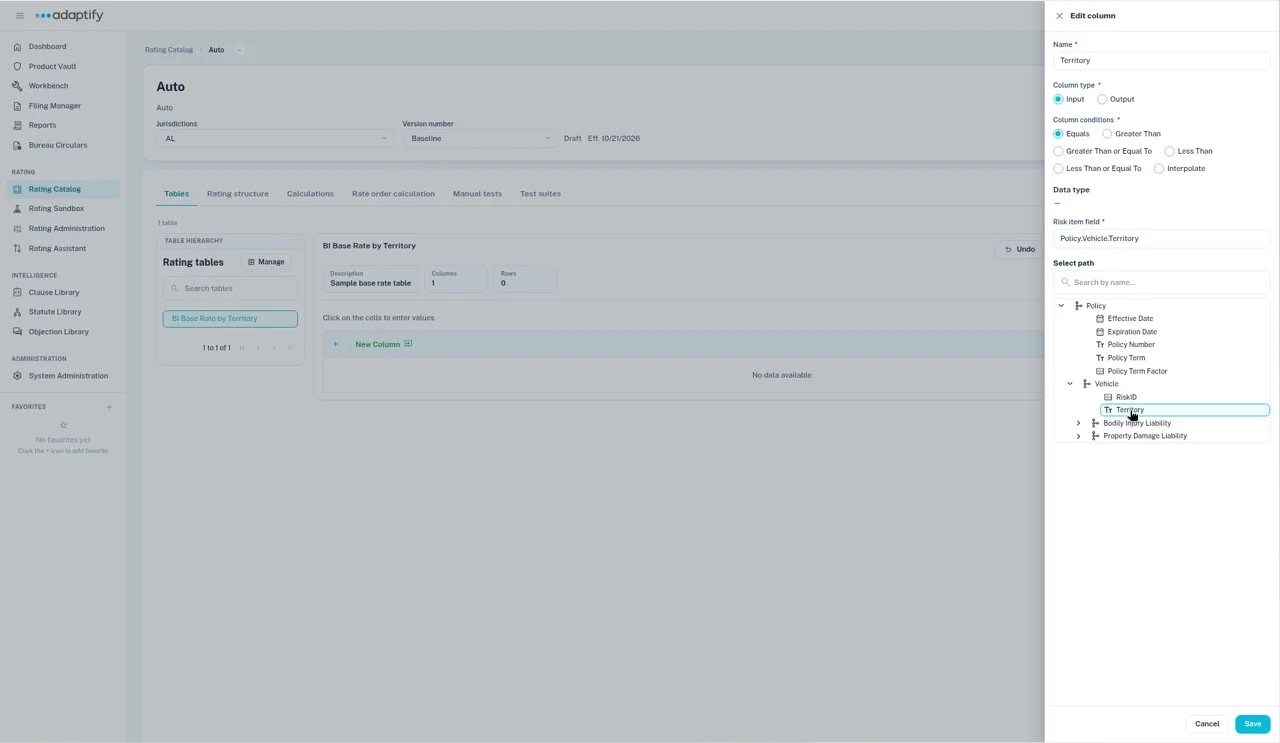
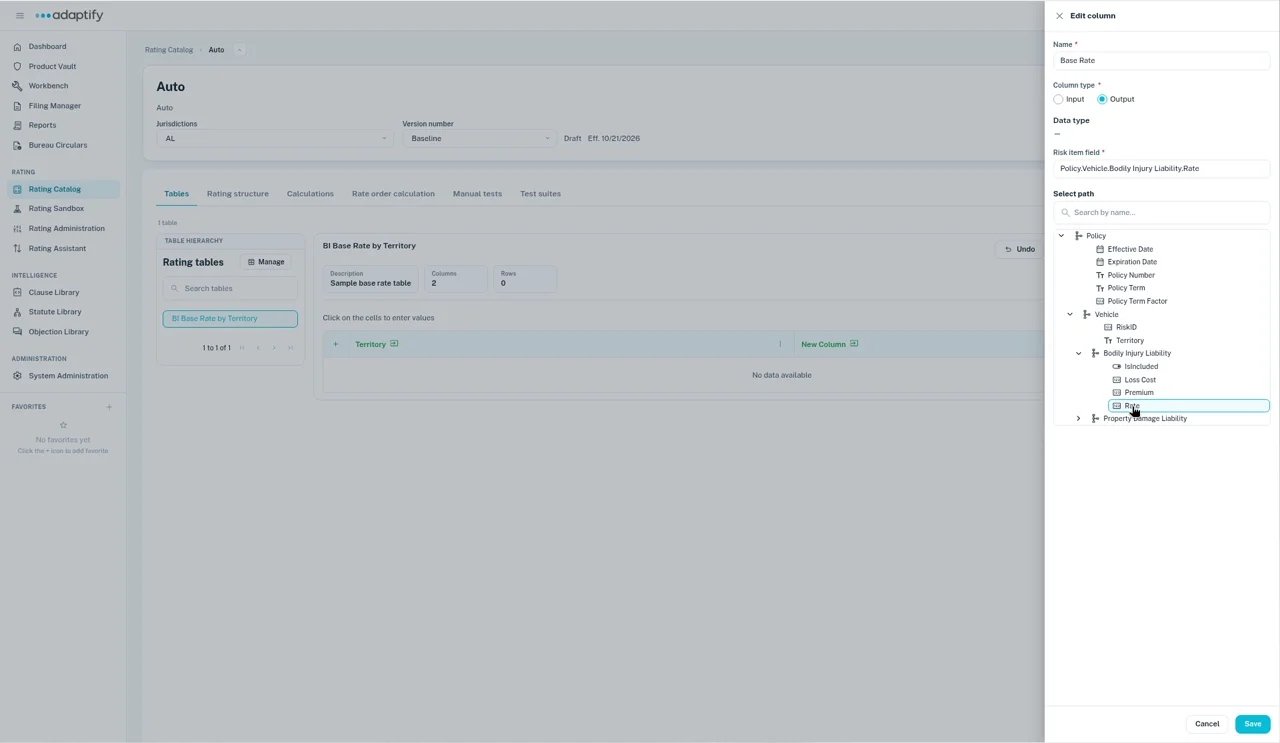
Rating pages: live screenshots from QA build-out

Changed region(s): [[0.8125, 0.1548, 1.0, 0.5882]]

diff --git a/docs/rating/calculations.md b/docs/rating/calculations.md
@@ -2,60 +2,56 @@
 title: Calculations
 audience: internal  # final audience: external (flips in a release PR)
 goals:
-  - Start a calculation flow for a risk item
-  - Build calculation steps and branches
+  - Open a calculation flow for a risk item or a coverage
+  - Build the flow from table and calculation steps
 video: ""
 ---
 
 # Calculations
 
-Calculations turn your table values and rating inputs into premium. Each calculation is a flow you draw on a canvas, step by step.
+Calculations turn your table values and rating inputs into premium. Each calculation is a flow you build on a canvas, from **START** to **END**.
 
-## Find or start a calculation
+## Find a calculation flow
 
-1. Open the rater and choose the **Calculations** tab. It has two views: **Risk item calculation** and **Coverages**.
-2. Choose the **Risk item**, such as **Policy**, then the **Risk item calculation**. Its flow appears on the canvas.
-3. To start a new one, select **+ Create new**. In **Create new risk item calculation**, enter the **Risk item calculation name**, choose the **Risk item**, then select **+ Create new risk item**.
+Open the rater and choose the **Calculations** tab. It has two views:
 
-You can also **Delete**, **Copy** or **Edit** the calculation that's open.
+- **Risk item calculation:** choose the **Risk item**, such as **Policy**, then the **Risk item calculation**. To start a new one, select **+ Create new**. In **Create new risk item calculation**, enter the **Risk item calculation name**, choose the **Risk item**, then select **+ Create new risk item**.
+- **Coverages:** choose the **Risk item**, such as **Vehicle**, then the **Coverage**, such as **Bodily Injury Liability**. Each coverage already has a flow that runs from **START** to **END**, ready for you to build on.
 
-![The Create new risk item calculation dialog over the Calculations tab](../assets/rating/create-risk-item-calculation.webp)
+The flow that's open appears below the pickers, with **Delete**, **Copy** and **Edit**.
 
-## What's on the canvas
+![A saved coverage flow on the Coverages view: START, a table lookup, a calculation and END](../assets/rating/calculation-canvas.webp)
 
-Every flow runs from **START** to **END**. In between, you link these nodes with arrows:
+## Build the flow
 
-- **Table:** looks up a rating table.
-- **Calculation:** a set of math steps.
-- **Branch:** a condition that sends the flow one way or another, such as checking for a wind exclusion. Each path can have a label.
+1. Select **Edit**. The flow opens full screen, with the **Table**, **Calculation** and **Branch** nodes at the top left.
+2. Drag the node you need onto the canvas:
+    - **Table:** looks up a rating table.
+    - **Calculation:** a set of math steps.
+    - **Branch:** sends the flow one way or another, based on a condition.
+3. Connect the nodes in order, from **START** to **END**. For example: START → your base rate table → a premium calculation → END.
+4. Double-click a node to configure it. For a **Table** node, pick the table in **Configure table**. A new Table node reads "Table id is null" until you pick its table.
+5. Select **Save changes**, or **Cancel** to discard your changes.
 
-Select **Edit** to change the flow. Add nodes from the palette on the left, then link them.
+Once the flow is saved, each Calculation node shows how many steps it has, for example "Calculation · 1 step".
 
 ## Configure a calculation
 
-Open a **Calculation** node to configure it.
+Double-click a **Calculation** node to open **Configure calculation**.
 
-1. Enter a **Name**.
-2. Under **Add Functions**, choose a function. It's added to **Steps**. Functions include **+**, **-**, **\***, **/**, **ROUND**, **ROUND_UP**, **DAYS_BETWEEN**, **MONTHS_BETWEEN**, **YEARS_BETWEEN**, **YEAR**, **IF**, **FOR_EACH** and **TABLE_LOOKUP**.
-3. Fill in each part of the step. For each one, choose a **Binding Type**:
+1. Enter a **Name**, for example BI Premium.
+2. Choose a function under **Add functions** to create a step. Each step can use the result of an earlier one.
+3. Fill in each part of the step. Select a part, such as **Pick left** or **Pick right**, and choose what to **USE**:
     - **Step:** the result of an earlier step.
-    - **Path:** a field from the rating structure, picked from **Select Path**.
+    - **Field:** a field from the rating structure, picked from **Select field**.
     - **Value:** a number you type in.
 4. Select **Save**.
 
-For example, step 1 could be Fire Peril Base Rate × Fire Territory Factor, and a later step could round the result.
+For example, BI Premium could set Policy.Vehicle.Bodily Injury Liability.Premium to the base rate from the table × 1.
 
 If a part is still empty, you'll see "Values are missing for one or more functions". Fill it in before you save.
 
-![Configure Calculation open over a calculation flow, with three steps and the Binding Type options Step, Path and Value](../assets/rating/configure-calculation.webp)
-
-## Configure a branch
-
-Open a **Branch** node to set its condition in **Configure Condition**: give it a **Name**, build the **IF** condition, then add what happens under **THEN** and **ELSE**.
-
-## Check your work
-
-Open the rater's **Actions** menu and choose **Validate**.
+![Configure calculation with BI Premium's step: Premium = Rate × 1](../assets/rating/configure-calculation.webp)
 
 ## Next
 

diff --git a/docs/rating/test-a-rater.md b/docs/rating/test-a-rater.md
@@ -3,7 +3,7 @@ title: Test a rater
 audience: internal  # final audience: external (flips in a release PR)
 goals:
   - Create and run a manual test case
-  - Use the Rate Log to check the math
+  - Use the Rate log to check the math
 video: ""
 ---
 
@@ -15,34 +15,34 @@ Test a rater by entering rating inputs and comparing the premium Adaptify works 
 
 1. Open the rater and choose the **Manual tests** tab.
 2. Select **Create test case**.
-3. In **Add new manual test**, enter the **Test case name** and the **Expected premium**, then select **Add test**. You'll see "Test case added successfully".
+3. In **Add new manual test**, enter the **Test case name** and the **Expected premium**, then select **Add test**.
 
-Each test case in the list has **Export**, **Copy**, **Edit** and **Delete**. You can also **Import** test cases from a JSON file exported from manual tests, or **Export all**.
-
-![The Add new manual test dialog with Test case name and Expected premium](../assets/rating/add-new-manual-test.webp)
+You can also **Import** test cases from a JSON file exported from manual tests, or **Export all**.
 
 ## Run a test
 
-1. Open the test case. You'll see the **Expected Premium** and **Actual Premium**.
-2. On **Rating Inputs**, fill in the inputs. These are the fields marked as rating inputs in the structure, in sequence-number order. Use the **Policy** tree on the left to move between risk items.
-3. Select **Execute Test**. A message tells you whether the test passed, with the premium.
+1. Open the test case. The header shows the **Expected premium** and **Actual premium**, with **Execute test** at the top right.
+2. On **Rating inputs**, use the **Policy** tree to move between risk items and coverages. For a **Multi** item, such as **Vehicle**, add an instance, such as **Vehicle #1**. Use **Delete** to remove one.
+3. Select an item to see its inputs on the right, under **Rating inputs**, and fill them in. These are the fields marked as rating inputs in the structure. Some inputs offer a list of values, such as the territories in your table.
+4. Give every required input a value, then run the test: select **Execute test**.
 
-Give every required input a value, then run the test.
+The banner shows the result, such as **Passed**, and **Actual premium** shows the premium Adaptify worked out.
 
-![A test case with Expected Premium, Actual Premium, Execute Test and the Rating Inputs](../assets/rating/test-case-inputs.webp)
+![A test case's Rating inputs, with Vehicle #1 selected and Territory set to 01](../assets/rating/test-case-inputs.webp)
 
-## Read the Rate Log
+![A passed test: expected premium $100.00 and actual premium $100.00](../assets/rating/test-passed.webp)
 
-Choose **Rate Log** to follow the math step by step. It shows exactly how each premium was worked out.
+## Read the Rate log
 
-- The list on the left shows each calculation, grouped by risk item.
+Choose **Rate log** to follow the math step by step. It shows exactly how each premium was worked out.
+
+- The **Rate log** list on the left shows each calculation, grouped by risk item.
 - For each table lookup, you see the **Input** and **Output**: the field, its path and its value.
-- For each calculation, you see each step with the numbers filled in and its result.
-- For each branch, you see the **IF**, **THEN** and **ELSE**, with the path that was taken.
+- For each calculation, you see the **Variable values**, then each step with the numbers filled in and its result.
 
-Use the filters at the top, such as **Risk Item**, **Coverage** and **Node Type**, to narrow the log.
+Use **Search** and the **Risk item**, **Risk item calculation**, **Coverage** and **Node type** filters to narrow the log. Select **Export PDF** to save it.
 
-![The Rate Log with calculation steps and the numbers used in each one](../assets/rating/rate-log-steps.webp)
+![The Rate log: the table lookup from Territory 01 to a base rate of 100, then BI Premium = (100 × 1) = 100](../assets/rating/rate-log-steps.webp)
 
 ## Test suites
 

diff --git a/docs/rating/rating-tables.md b/docs/rating/rating-tables.md
@@ -20,7 +20,7 @@ Select **Manage** next to **Rating tables** to:
 - **Add new table**, **Import table**, **Import tables**, **Import tables from manuals** or **Export all tables**.
 - Under **Actions for selected table**: **Export table**, **Copy table**, **Edit table details** or **Delete table**. Select a table first.
 
-![The Manage menu on the Tables tab](../assets/rating/manage-menu.webp)
+![The Manage menu open on the Tables tab](../assets/rating/manage-menu.webp)
 
 ## Add a table
 
@@ -30,8 +30,6 @@ Select **Manage** next to **Rating tables** to:
 4. Enter the **Rule number**, if there is one.
 5. Select **Add table**. The new, empty table opens.
 
-![The Add new table dialog with Name, Description, Type and Rule number](../assets/rating/add-new-table-live.webp)
-
 ## Set up the columns
 
 1. Select the table, then select **Edit**.
@@ -39,11 +37,11 @@ Select **Manage** next to **Rating tables** to:
 3. Enter the column's **Name**.
 4. Choose the **Column type**: **Input** for a value you look up by, such as Zip code, or **Output** for the value you get back, such as Territory.
 5. For an input column, choose the **Column conditions**: **Equals**, **Greater Than**, **Greater Than or Equal To**, **Less Than**, **Less Than or Equal To** or **Interpolate**.
-6. Under **Select path**, search for and pick the structure field this column maps to. It fills in the **Risk item field**, for example Policy.Vehicle.Territory, and shows its **Data type**.
+6. Under **Select path**, search for and pick the structure field this column maps to. It fills in the **Risk item field**, for example Policy.Vehicle.Territory for an input or Policy.Vehicle.Bodily Injury Liability.Rate for an output, and shows its **Data type**.
 7. Select **Save**. Add the next column the same way.
 8. Select **Save changes** to save the table, or **Cancel** to discard your changes. **Undo** and **Redo** step through your edits.
 
-![The Edit column panel with Name, Column type, Column conditions, Data type, Risk item field and the Select path tree](../assets/rating/edit-column.webp)
+![The Edit column panel for an Output column, with the Risk item field filled in from the Select path tree](../assets/rating/edit-column.webp)
 
 ## Fill in the table
 
@@ -52,6 +50,10 @@ While you edit the table, select a cell to type a value into it, then select **S
 1. Select **Manage** → **Export table**. You get a CSV file with the column headers.
 2. Fill in the rows in Excel and save it as CSV.
 3. Select **Manage** → **Import table**, then choose your CSV file.
+
+The saved table shows its **Description**, **Columns** and **Rows**, with input and output columns marked by different icons.
+
+![A saved rating table with a Territory input column and a Base Rate output column](../assets/rating/rating-table-filled.webp)
 
 ## Add the table to a calculation
 

diff --git a/docs/rating/rate-order.md b/docs/rating/rate-order.md
@@ -10,14 +10,14 @@ video: ""
 
 The rate order is the order Adaptify runs your calculations in. Open the rater and choose the **Rate order calculation** tab.
 
-The calculations are numbered and grouped by risk item, such as **Location** and **Policy**. Use **Search** and **Type** to find one. Select **Edit** to change the order. Until a rater has calculations, the tab reads "No calculations found".
+The calculations are numbered in the order they run, grouped by risk item. For example, **Vehicle (1 to N)** lists **1 Bodily Injury Liability**. Use **Search** and **Type** to find a calculation, and select **Edit** to change the order. Until a rater has calculations, the tab reads "No calculations found".
 
-![The Rate order calculation tab with Search, Type and Edit](../assets/rating/rate-order-calculation.webp)
+![The Rate order calculation tab with the Bodily Injury Liability calculation under Vehicle](../assets/rating/rate-order-calculation.webp)
 
 ## Get the order right
 
-- Put the tables before the calculations that use them.
-- Put **Total Premium** last.
+- Inside each flow, put the table lookup before the calculation that uses its value.
+- If you have a total premium calculation, put it last.
 
 When you're done, open the rater's **Actions** menu and choose **Validate**.
 
